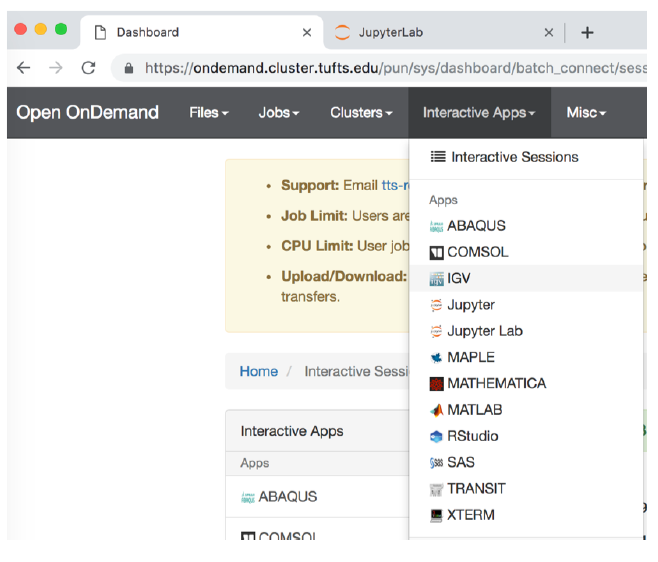
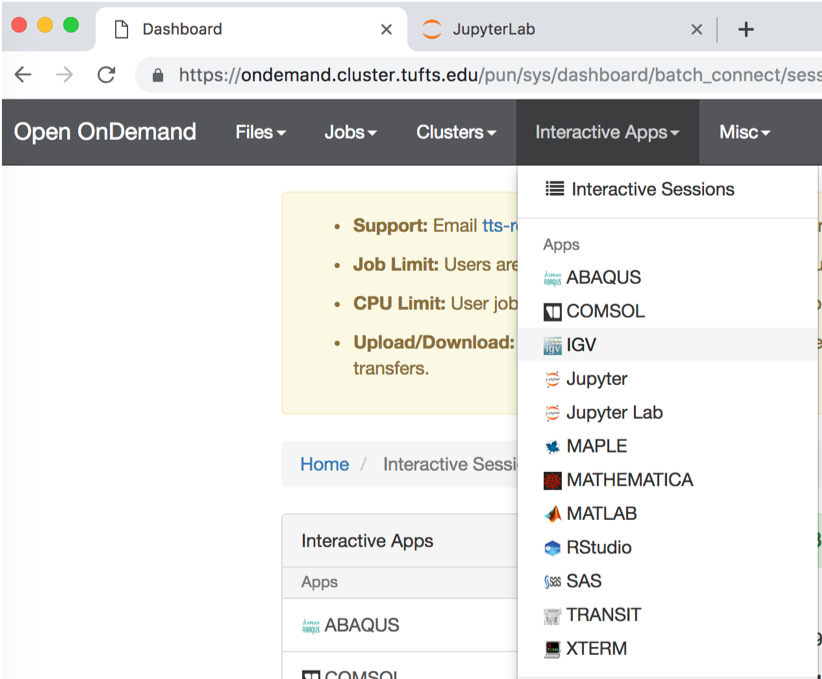
refresh images in alignment

Changed region(s): [[0.0, 0.0, 1.0, 1.0], [0.3647, 0.7562, 0.5471, 1.0]]

diff --git a/lessons/03_Read_Alignment.md b/lessons/03_Read_Alignment.md
@@ -45,15 +45,18 @@ We'll re-create the STAR genome index in our own directory in order to practice:
 
 - Get an interaction session on a compute node if you haven't done so
 
-`srun --pty -t 3:00:00  --mem 32G  -N 1 -n 4 bash`
+`srun --pty -t 3:00:00  --mem 16G  -N 1 -n 4 bash`
 
 - load the module
 
 `module load STAR/2.7.0a`
 
-- create a directory to store the index in
+- Go back to the top of our course directory and create a directory to store the index:
 
-`mkdir genome`
+```
+cd ..
+mkdir genome
+```
 
 - You can take a peak at the first 10 lines of the file `genome.fa` using the `head` command
 ```
@@ -179,7 +182,7 @@ Make a new directory for our results
 mkdir STAR_practice
 ```
 
-Open the script ./scripts/star_align_practice.sh in a text editor with `vi`
+Open the script ./scripts/star_align_practice.sh in a text editor, for example `nano scripts/star_align_practice.sh`: 
 
 ```
 ## Load STAR aligner
@@ -187,7 +190,7 @@ module load STAR/2.7.0a
 mkdir -p STAR_practice
 
 ## Assign the fastq file with its location. Extension with .fastq, .fq and .fastq.gz work the same
-FASTQ="raw_data/WT_1/ERR458493.fastq.gz"
+FASTQ="raw_data/WT/ERR458493.fastq.gz"
 
 ## If you have multiple fastq files for one same sample, you can compile them together by typing below
 #FASTQ="reads1.fastq, reads2.fastq"
@@ -225,8 +228,7 @@ We've given the following arguments to `STAR`:
 6. `--sjdbGTFfile" `: GTF annotation file for the gene expression calculation
 7. `--sjdbOverhang`:  specifies the length of the genomic sequence around the annotated junction to be used in constructing the splice junctions database. Ideally, this length should be equal to the ReadLength-1, where ReadLength is the length of the reads. For instance, for Illumina 2x100b paired-end reads, the ideal value is 100-1=99. In case of reads of varying length, the ideal value is max(ReadLength)-1. In most cases, the default value of 100 will work as well as the ideal value.
 
-
-Exit vi by typing `ESC` and `:wq` to save and name the file.
+Exit nano by typing `^X`.
 
 Now we can run our script using sh.
 ```
@@ -309,7 +311,7 @@ Further QC options are available with `RSEQC` and `samtools` packages (see scrip
 - **Bam format**
 
 The BAM file is a binary compressed version of a Sequence Alignment Map (SAM) file.
-<img src="../img/BAM_format.png" width="500">
+<img src="../img/BAM_format.png" width="700">
 
 Take a look at the output file:
 ```markdown
@@ -346,7 +348,7 @@ module load samtools/1.9
 samtools index STAR_practice/WT_ERR458493_Aligned.sortedByCoord.out.bam
 ```
 
-The result is a file with the extension `bai`:
+The result is a file with the extension `bai` in the same folder as our BAM file:
 ```
 WT_ERR458493_Aligned.sortedByCoord.out.bam.bai
 ```
@@ -370,19 +372,20 @@ directory: < leave default>`
 
 - Click: `Launch noVNC in New Tab` when it appears.
 
-<img src="../img/IGV_launch.png" width="400">
+<img src="../img/IGV_launch.png" width="500">
 
 - If the genome browser is cut off, resize using Chrome:
 
-<img src="../img/IGV_zoom.png" width="400">
+<img src="../img/IGV_zoom.png" width="500">
 
 - Enable RNA-seq-specific Splice Junction track by making the following selections in the IGV menu:
   1. `View -> Preferences`
 
-<img src="../img/IGV_preference.png" width="400">
-  2. `Alignments -> Track Display Options -> Splice Junction Track -> OK`
+<img src="../img/IGV_preference.png" width="500">
 
-<img src="../img/IGV_alignment.png" width="400">
+  2.`Alignments -> Track Display Options -> Splice Junction Track -> OK`
+
+<img src="../img/IGV_alignment.png" width="500">
 
 - Choose reference genome by clicking the `Genomes` menu and selecting `Load Genome from Server...`
 
